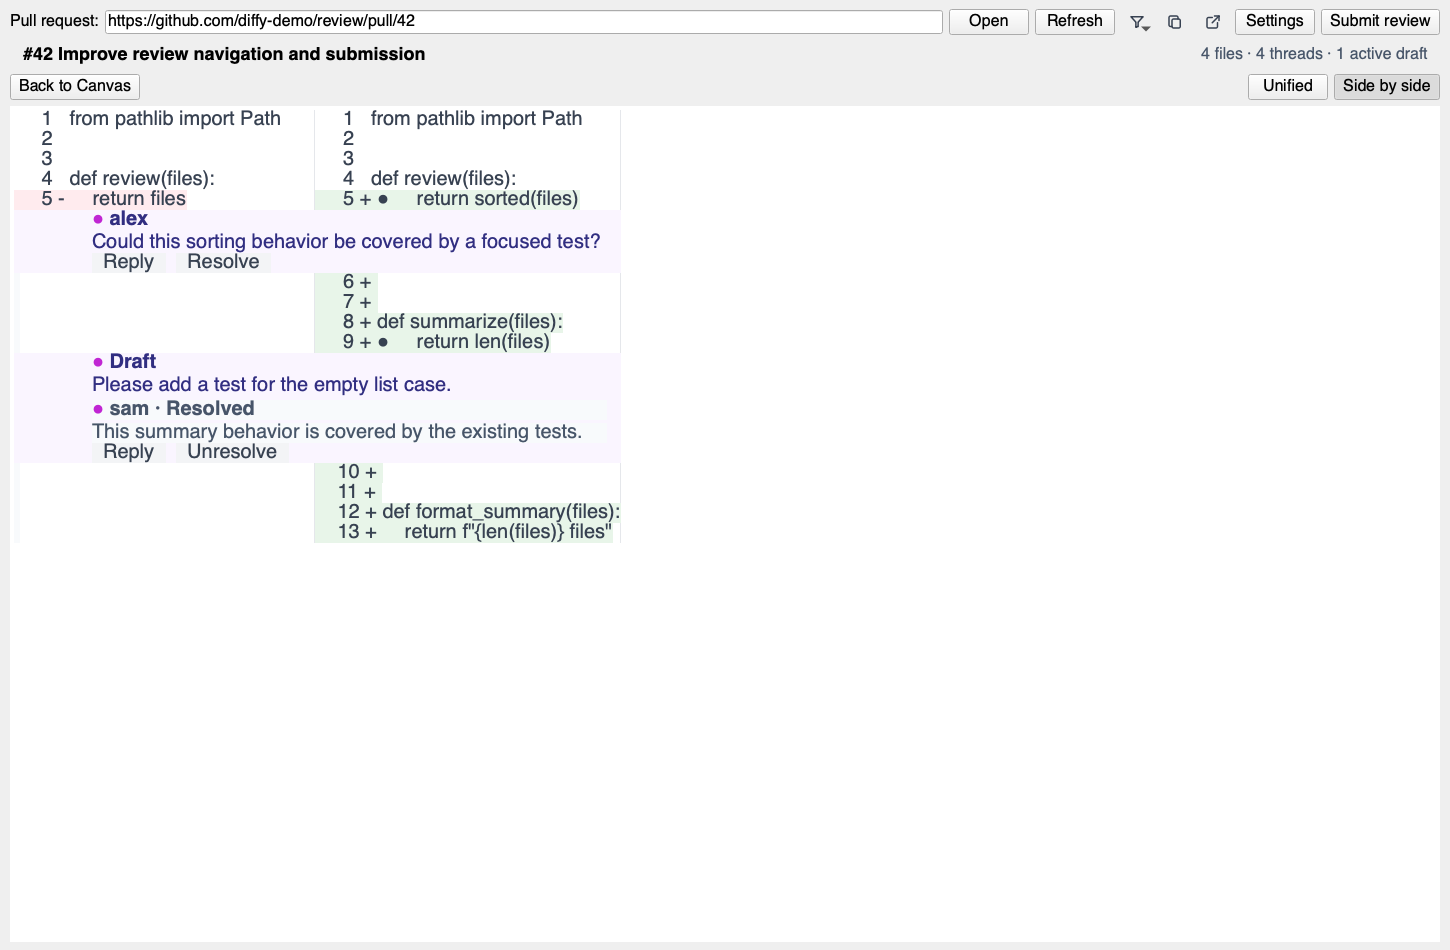
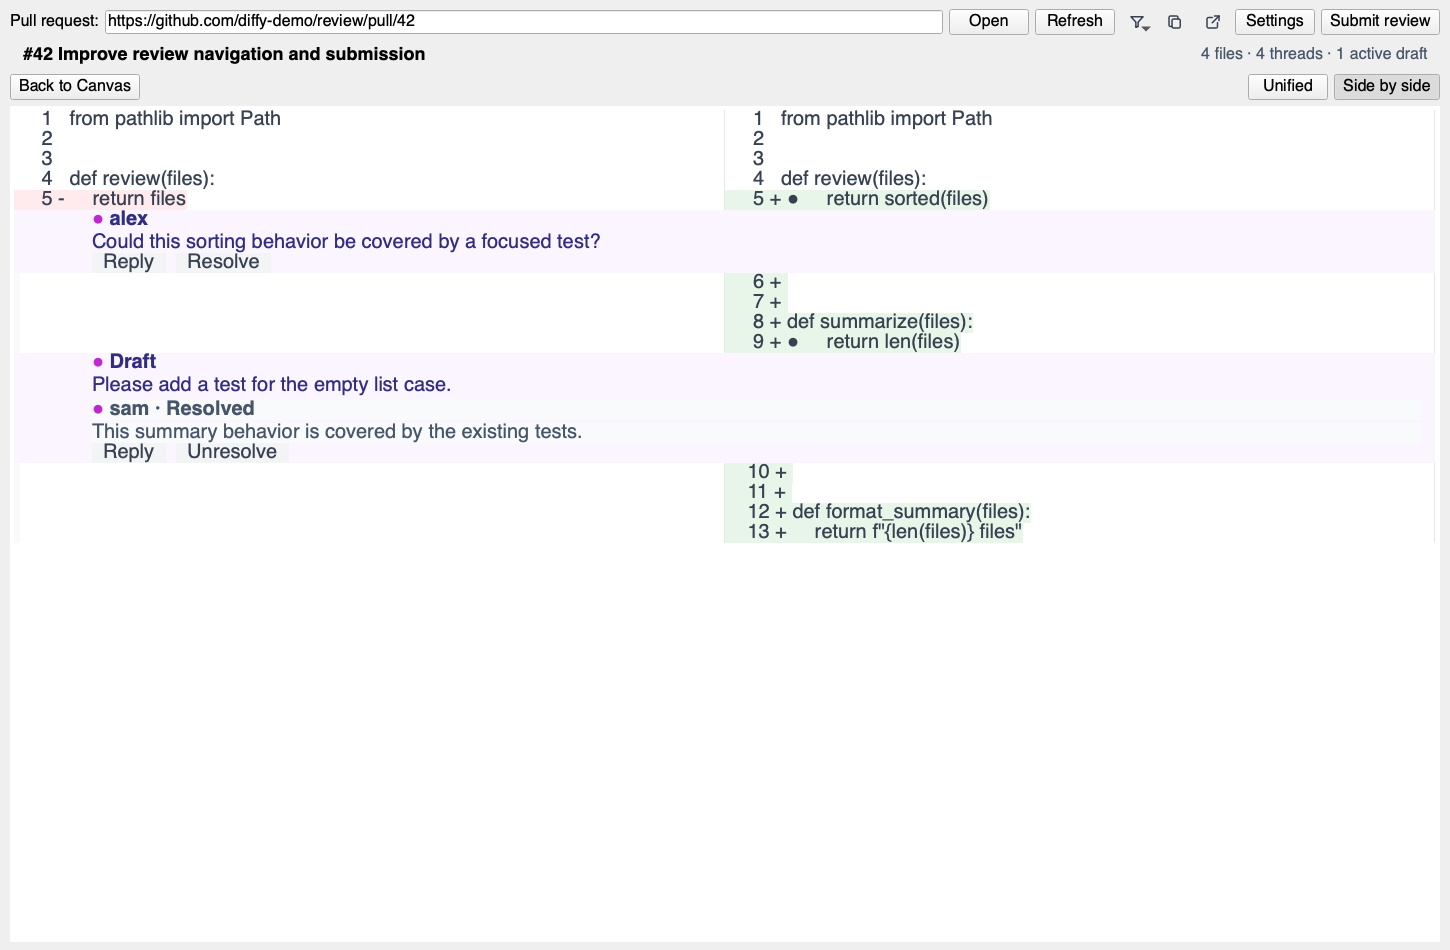
Expand side-by-side diff columns

diff --git a/diffy/ui/main_window.py b/diffy/ui/main_window.py
@@ -212,7 +212,7 @@ class DiffViewer(QTextBrowser):
                         rendered.append(self._inline_comment(comment.author, comment.body, thread.resolved))
                 rendered.append(self._thread_actions(thread))
         if self.side_by_side:
-            rendered.append('<table class="side-by-side"><tbody>')
+            rendered.append('<table class="side-by-side" width="100%"><colgroup><col width="50%"><col width="50%"></colgroup><tbody>')
             index = 0
             while index < len(file.lines):
                 line = file.lines[index]
@@ -284,7 +284,7 @@ class DiffViewer(QTextBrowser):
         comments = []
         for index, line in ((left_index, left), (right_index, right)):
             if line is None:
-                cells.append('<td><a style="background:#f8fafc;">&#160;</a></td>')
+                cells.append('<td width="50%"><a style="background:#f8fafc;">&#160;</a></td>')
                 continue
             background = "#e8f5e9" if line.kind == "added" else "#ffebee" if line.kind == "deleted" else "#ffffff"
             marker = "+" if line.kind == "added" else "-" if line.kind == "deleted" else " "
@@ -293,7 +293,7 @@ class DiffViewer(QTextBrowser):
             content = html.escape(line.content)
             if key in drafts_by_line or key in threads_by_line:
                 content = "● " + content
-            cells.append(f'<td><a href="line:{index}" style="background:{background};">{number or "":>6} {marker} {content}</a></td>')
+            cells.append(f'<td width="50%"><a href="line:{index}" style="background:{background};">{number or "":>6} {marker} {content}</a></td>')
             for draft in drafts_by_line.get(key, []):
                 comments.append(self._inline_comment("Draft", draft.body))
             for thread in threads_by_line.get(key, []):
@@ -303,7 +303,7 @@ class DiffViewer(QTextBrowser):
                 comments.append(self._thread_actions(thread))
         row = "<tr>" + "".join(cells) + "</tr>"
         if comments:
-            row += f'<tr><td colspan="2" class="side-comment">{"".join(comments)}</td></tr>'
+            row += f'<tr><td colspan="2" width="100%" class="side-comment">{"".join(comments)}</td></tr>'
         return row
 
     def _context_menu_requested(self, position) -> None:
